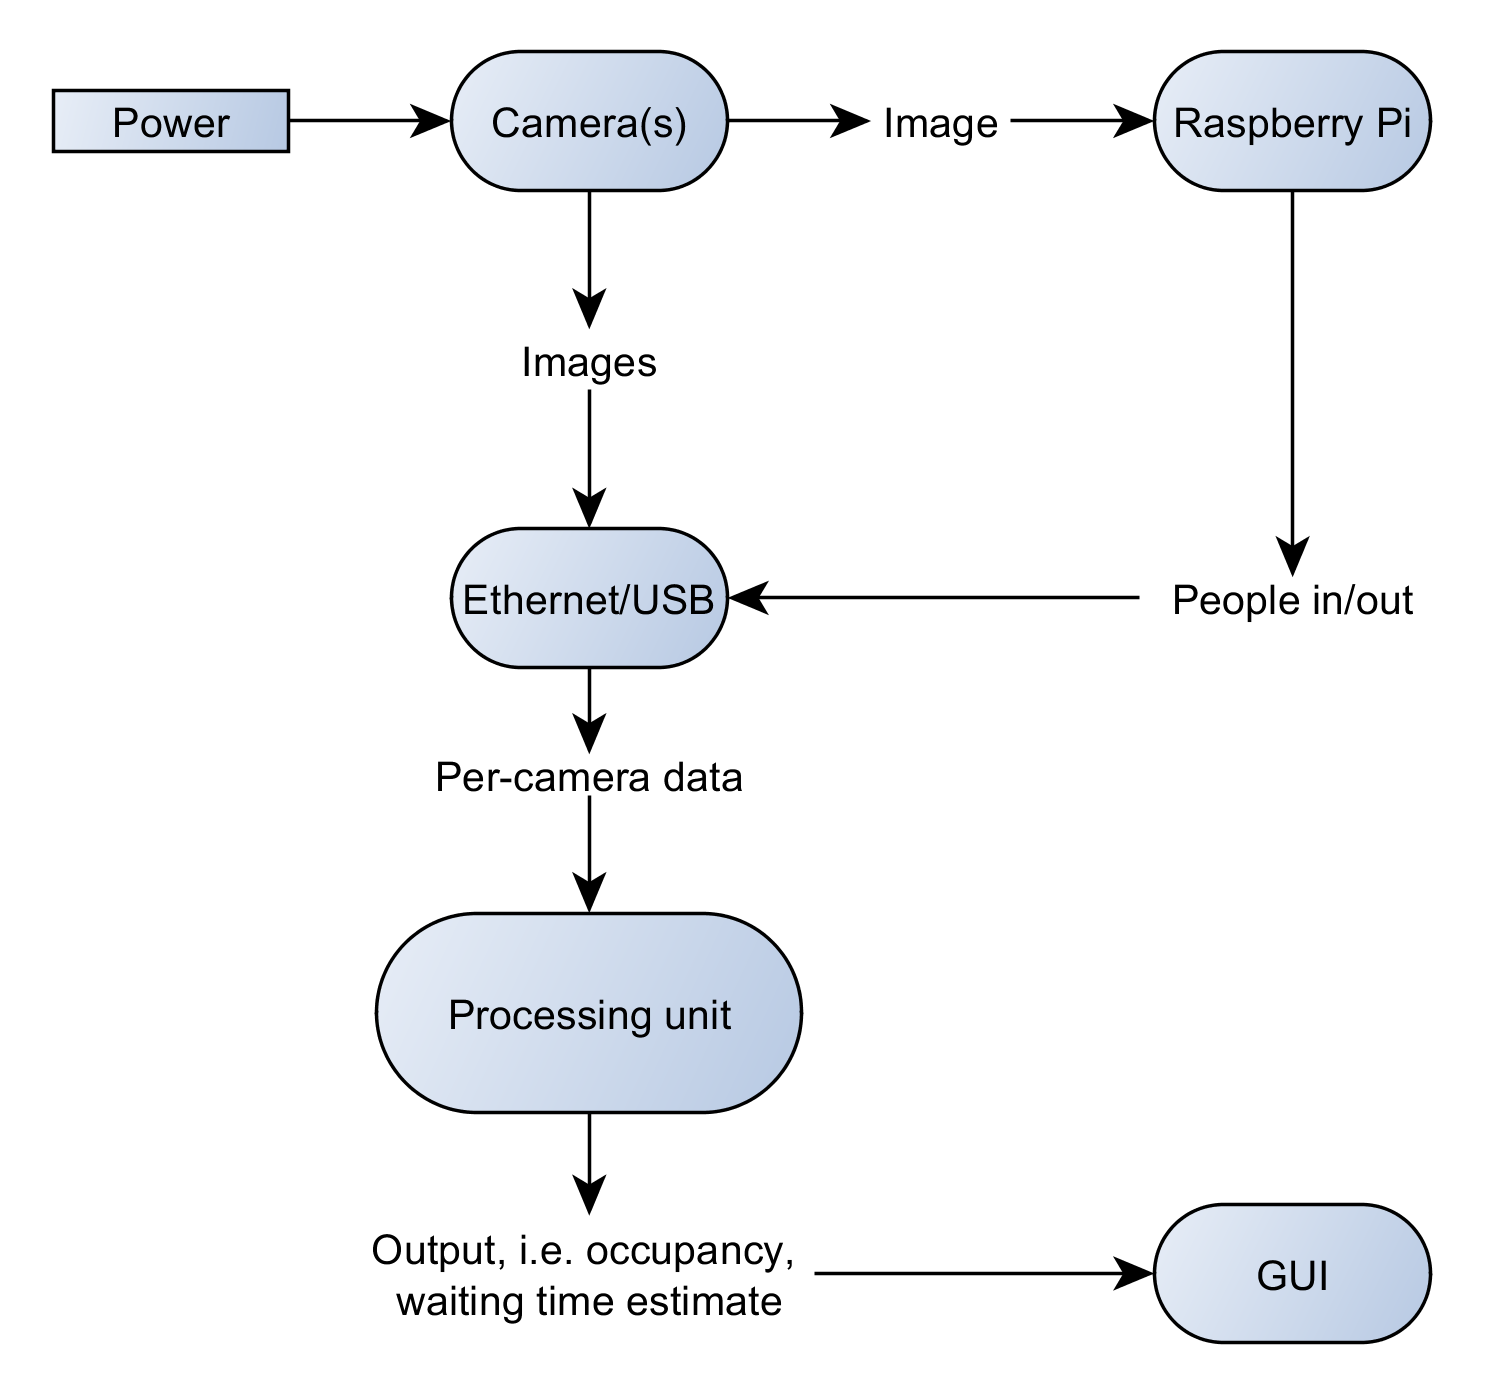
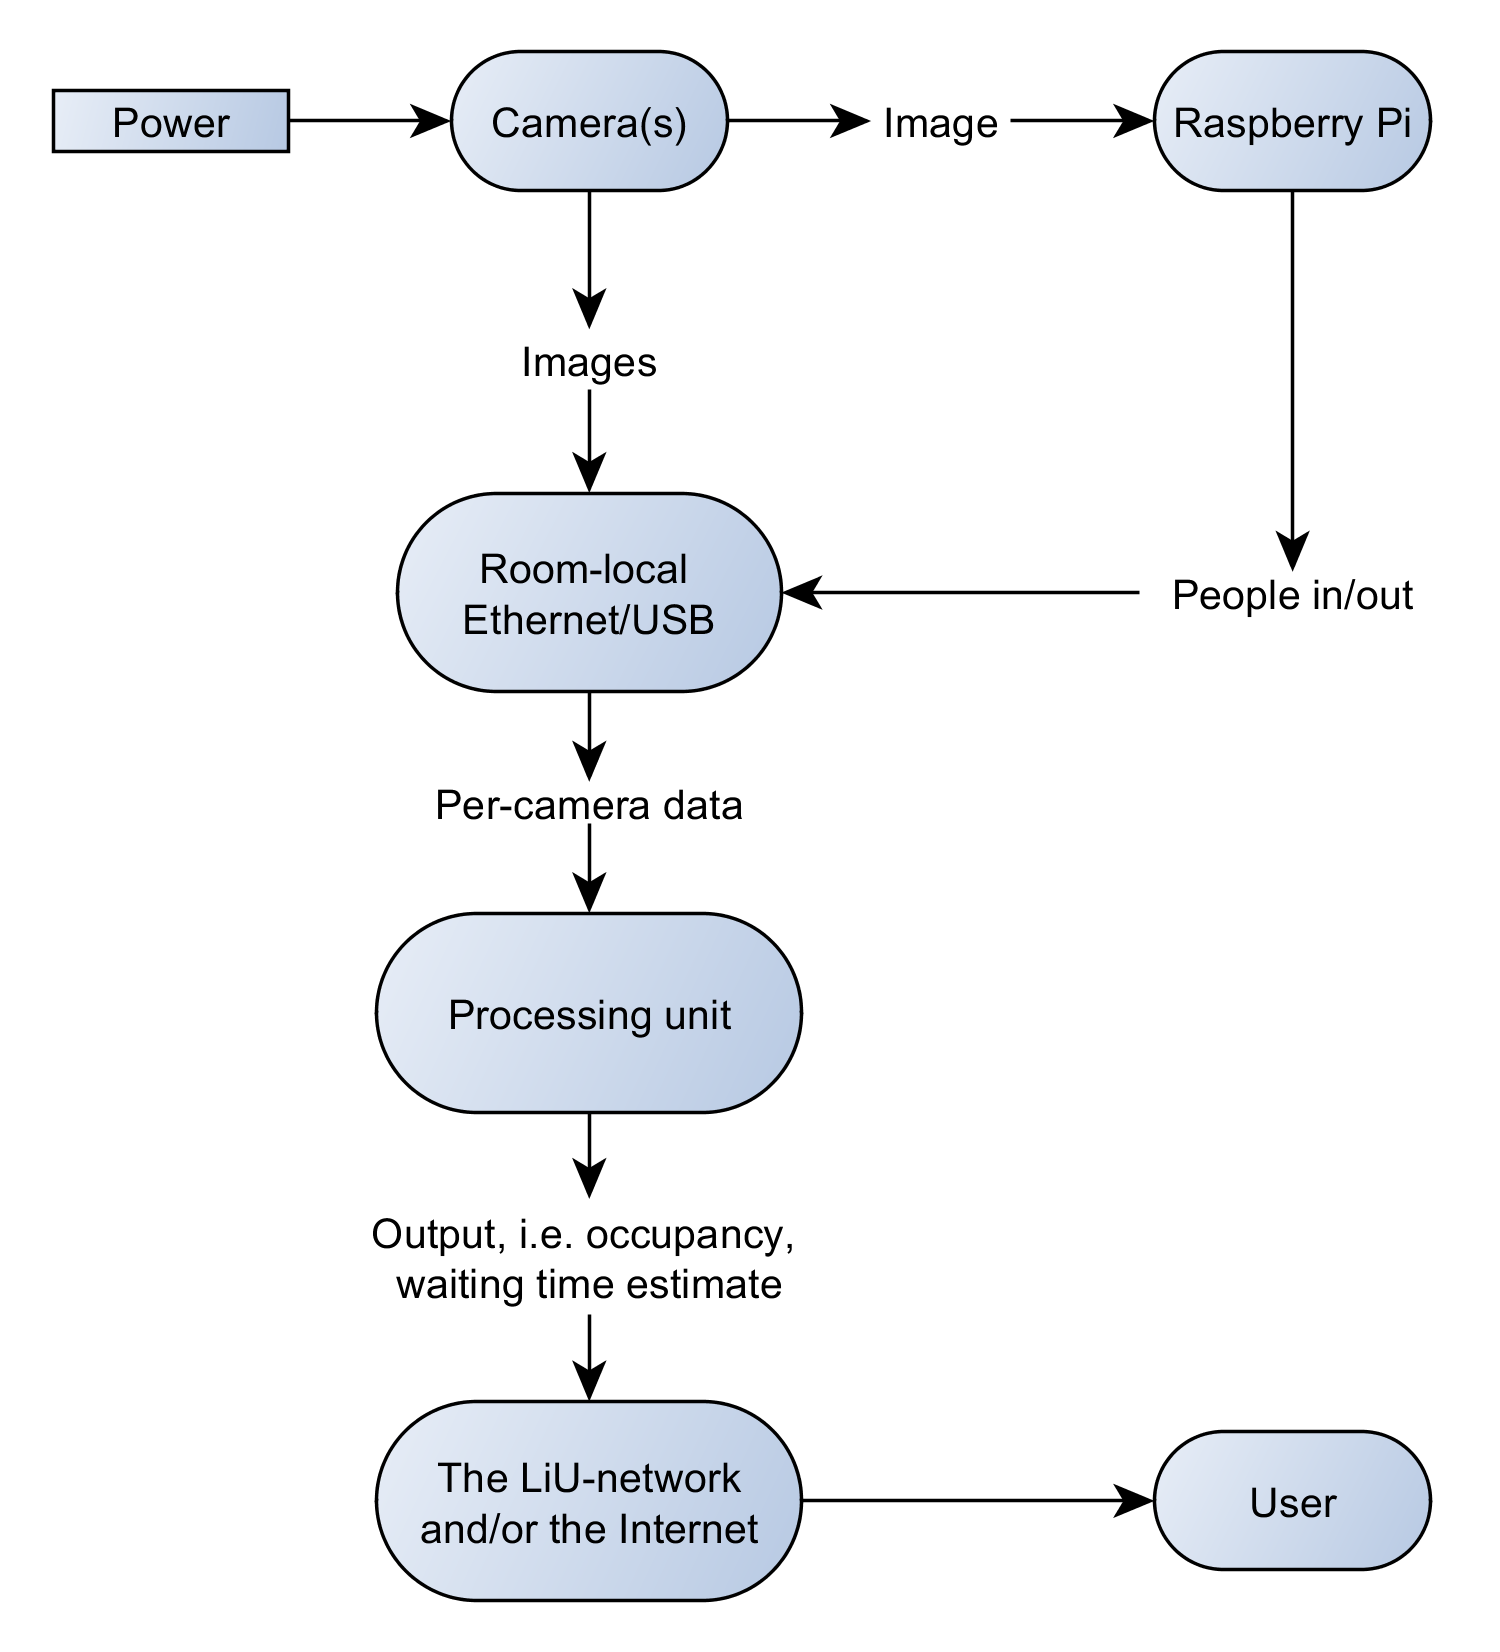
Fixed the images over public network controversy.

diff --git a/doc/Requirement Specification/tex_files/system_overview.tex b/doc/Requirement Specification/tex_files/system_overview.tex
@@ -1,4 +1,4 @@
-The system consists of two parts, one that is designed to run in real-time on a laptop, complete with GUI for debugging and parameter tuning, but also a more slim version designed to run, in real-time on a Raspberry Pi\footnote{The words "Raspberry Pi" and the Raspberry Pi logo are trademarks of the Raspberry Pi Foundation} computer, with a Raspberry-Pi camera or a Microsoft Kinect. In case of the laptop, all processing of data takes place on the laptop and is presented to the user via the debug-GUI. The Raspberry Pi-system, image processing is performed locally on the board with information about people entering/exiting being transmitted via Ethernet to receiving device. Below is an overview of the two different systems.
+The system consists of two parts, one that is designed to run in real-time on a laptop or other mid-end processing device, complete with GUI for debugging and parameter tuning. An other, more slim version designed to run, in real-time on a Raspberry Pi\footnote{The words "Raspberry Pi" and the Raspberry Pi logo are trademarks of the Raspberry Pi Foundation} computer, with a Raspberry-Pi camera or a Microsoft Kinect is also delivered. In the former case all processing of data takes place on the processing unit and is presented to the user via the debug-GUI. The Raspberry Pi-system, image processing is performed locally on the board with information about people entering/exiting being transmitted via Ethernet to receiving device. Below is an overview of the system.
 
 \vspace{0.5cm}
 \begin{figure}[htb]
@@ -9,7 +9,7 @@ The system consists of two parts, one that is designed to run in real-time on a 
 \end{figure}
 
 \subsection{Rough description of the systems}
-The camera(s) used to collect data are connected to the processing unit via Ethernet, or USB in case of the laptop. For the Raspberry Pi system, a special Raspberry-Pi camera board, or a Microsoft Kinect is used. The main program collects data from the cameras in a room to perform an estimation of room usage intensity, which is then presented to the user in an understandable format, e.g. estimated waiting time or current amount of people in the room.
+The camera(s) used to collect data are connected to the processing unit via Ethernet, or USB in case where one processing unit per room is used. For integrity reasons, the network connecting the cameras to the local processing unit needs to be private and through cable. For the Raspberry Pi system, a special Raspberry-Pi camera board, or a Microsoft Kinect is used. The main program collects data from the cameras in a room to perform an estimation of room usage intensity, which is then presented to the user in an understandable format, e.g. estimated waiting time or current amount of people in the room.
 \newpage
 \subsection{Components}
 The main components of the system are the cameras, the image processing unit(s), and the result presentation page.

diff --git a/doc/Requirement Specification/tex_files/hardware.tex b/doc/Requirement Specification/tex_files/hardware.tex
@@ -11,13 +11,13 @@ Since the system is to be able to run on two different platforms, the hardware r
 \newpage
 
 \subsection{Limitations}
-The hardware is limited by budget, Internet connection and the source of power. The cost is limited to approximately 15.000 SEK per room, including installation costs. The budget limits performance of the cameras e.g. resolution and number of cameras. The connection needs to be stable and have a bandwidth good enough for sending live video from the cameras.   
+The hardware is limited by budget, Internet connection and the source of power. The cost is limited to approximately 15.000 SEK per room, including installation costs. The budget limits performance of the cameras e.g. resolution and number of cameras. The connection from the cameras to the processing unit(s) needs to be stable and have a bandwidth good enough for sending live video from the cameras. Additionally, no image data may be transmitted over public networks.   
 \newpage
 \subsection{Hardware Requirements}
 \label{sec:hardware_req}
 \reqtable
 {
-	\addreq{The system uses network cameras powered via Ethernet.\newline \textbf{Revised 2013-11-27:} The system uses cameras connected to a laptop (mid-end processing device) via network or USB.}{1}	
+	\addreq{The system uses network cameras powered via Ethernet.\newline \textbf{Revised 2013-11-27:} The system uses cameras connected to a laptop (or similar mid-end processing device) via network or USB.}{1}	
 	\addreq{The system can operate using high resolution ($>$2 Mpixel) cameras}{1}
 	\addreq{Lower resolution cameras can be used}{2}
 	\addreq{The application can run using the processing power provided by the costumer.\newline \textbf{Canceled 2013-11-27: }No processing power will be provided by the customer within the delivery time.}{--}
